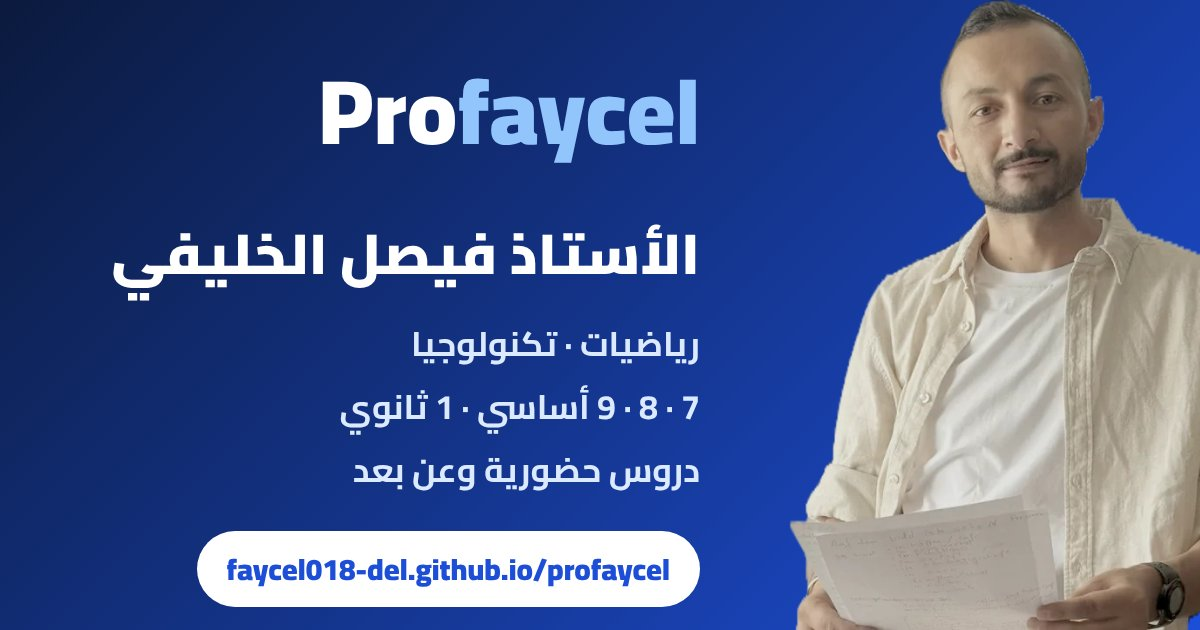
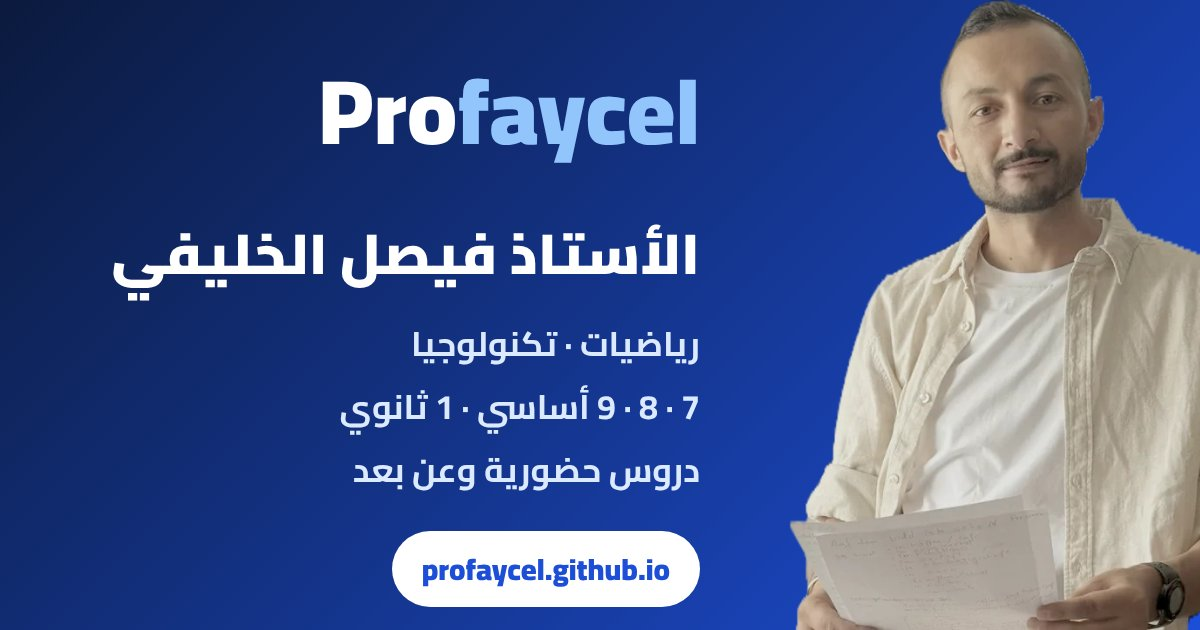
Nouvelle adresse du site : https://profaycel.github.io/
Liens canoniques, Open Graph, données structurées, sitemap, SITE_URL
(messages WhatsApp) et image de partage mis à jour ; CLAUDE.md indique
la nouvelle adresse et le nouveau dépôt.

Claude-Session: https://claude.ai/code/session_01ETy38nKtncWEKzrF837xhq

Changed region(s): [[0.1542, 0.8143, 0.555, 0.9651]]

diff --git a/index.html b/index.html
@@ -13,18 +13,18 @@
 
     <link rel="stylesheet" href="style.css?v=7">
     <link rel="stylesheet" href="home.css?v=7">
-    <link rel="canonical" href="https://faycel018-del.github.io/profaycel/">
+    <link rel="canonical" href="https://profaycel.github.io/">
     <meta name="keywords" content="Profaycel, Faycel Khlifi, فيصل الخليفي, الأستاذ فيصل, cours maths Tunisie, cours à distance, رياضيات, تكنولوجيا, دروس خصوصية, 7 أساسي, 8 أساسي, 9 أساسي">
     <meta property="og:type" content="website">
     <meta property="og:site_name" content="Profaycel">
     <meta property="og:title" content="Profaycel — الأستاذ فيصل الخليفي · Maths & Technologie">
     <meta property="og:description" content="دروس رياضيات وتكنولوجيا حضورية وعن بعد · 7، 8، 9 أساسي و1 ثانوي · حصّة مجانية كل أسبوع">
-    <meta property="og:url" content="https://faycel018-del.github.io/profaycel/">
-    <meta property="og:image" content="https://faycel018-del.github.io/profaycel/img/partage.jpg">
+    <meta property="og:url" content="https://profaycel.github.io/">
+    <meta property="og:image" content="https://profaycel.github.io/img/partage.jpg">
     <meta property="og:image:width" content="1200">
     <meta property="og:image:height" content="630">
     <meta name="twitter:card" content="summary_large_image">
-    <script type="application/ld+json">{"@context":"https://schema.org","@type":"Person","name":"Faycel Khlifi","alternateName":["فيصل الخليفي","Profaycel"],"jobTitle":"Professeur de mathématiques et de technologie","url":"https://faycel018-del.github.io/profaycel/","image":"https://faycel018-del.github.io/profaycel/img/faycel-hero.webp","sameAs":["https://www.facebook.com/alastadh.fysl.234144","https://www.tiktok.com/@profaycel","https://www.instagram.com/faycel_khlifii/","https://www.youtube.com/@profaycel","https://www.linkedin.com/in/faycel-khlifi-49824514b/"]}</script>
+    <script type="application/ld+json">{"@context":"https://schema.org","@type":"Person","name":"Faycel Khlifi","alternateName":["فيصل الخليفي","Profaycel"],"jobTitle":"Professeur de mathématiques et de technologie","url":"https://profaycel.github.io/","image":"https://profaycel.github.io/img/faycel-hero.webp","sameAs":["https://www.facebook.com/alastadh.fysl.234144","https://www.tiktok.com/@profaycel","https://www.instagram.com/faycel_khlifii/","https://www.youtube.com/@profaycel","https://www.linkedin.com/in/faycel-khlifi-49824514b/"]}</script>
     <link rel="manifest" href="manifest.json">
     <meta name="theme-color" content="#2563eb">
     <link rel="icon" type="image/svg+xml" href="icons/icon.svg">

diff --git a/confidentialite.html b/confidentialite.html
@@ -11,7 +11,7 @@
           content="Politique de confidentialité de la plateforme Profaycel.">
 
     <link rel="stylesheet" href="style.css?v=7">
-    <link rel="canonical" href="https://faycel018-del.github.io/profaycel/confidentialite.html">
+    <link rel="canonical" href="https://profaycel.github.io/confidentialite.html">
     <link rel="manifest" href="manifest.json">
     <meta name="theme-color" content="#2563eb">
     <link rel="icon" type="image/svg+xml" href="icons/icon.svg">

diff --git a/login.html b/login.html
@@ -11,7 +11,7 @@
           content="Connectez-vous à votre espace Profaycel : élève, parent ou administration.">
 
     <link rel="stylesheet" href="style.css?v=7">
-    <link rel="canonical" href="https://faycel018-del.github.io/profaycel/login.html">
+    <link rel="canonical" href="https://profaycel.github.io/login.html">
     <link rel="manifest" href="manifest.json">
     <meta name="theme-color" content="#2563eb">
     <link rel="icon" type="image/svg+xml" href="icons/icon.svg">

diff --git a/register.html b/register.html
@@ -11,7 +11,7 @@
           content="Créez votre compte Profaycel : élève, parent ou administration.">
 
     <link rel="stylesheet" href="style.css?v=7">
-    <link rel="canonical" href="https://faycel018-del.github.io/profaycel/register.html">
+    <link rel="canonical" href="https://profaycel.github.io/register.html">
     <link rel="manifest" href="manifest.json">
     <meta name="theme-color" content="#2563eb">
     <link rel="icon" type="image/svg+xml" href="icons/icon.svg">

diff --git a/script.js b/script.js
@@ -313,7 +313,7 @@ if ("serviceWorker" in navigator) {
 const ADMIN_EMAIL = "faycel.khlifiii@gmail.com";
 
 // Adresse publique du site (pour les messages WhatsApp)
-const SITE_URL = "https://faycel018-del.github.io/profaycel/";
+const SITE_URL = "https://profaycel.github.io/";
 
 // Prix d'une séance (les paiements sont enregistrés en nombre de séances)
 const PRIX_SEANCE = 25;

diff --git a/CLAUDE.md b/CLAUDE.md
@@ -2,8 +2,10 @@
 
 ## Le site
 
-- **Adresse officielle (la seule) : https://faycel018-del.github.io/profaycel/index.html**
+- **Adresse officielle (la seule) : https://profaycel.github.io/index.html**
   Quand on parle « du site », c'est toujours de cette adresse.
+- Ancienne adresse (avant le 20/10/2026) : `https://faycel018-del.github.io/profaycel/` — ne plus l'utiliser.
+- Dépôt GitHub : `profaycel/profaycel.github.io` (organisation `profaycel`).
 - Hébergement : GitHub Pages, publié automatiquement depuis la branche `main`
   (2–3 minutes après chaque fusion de Pull Request).
 - Les anciennes copies Netlify (`profaycel.netlify.app`, `tranquil-swan-a4ca4c`) ont été
@@ -47,3 +49,5 @@
 - Après une modification de CSS / JS, augmenter le numéro `?v=` dans les pages et
   `CACHE_NAME` dans `sw.js`.
 - Le schéma de la base est tenu à jour dans `supabase/schema.sql`.
+- Ne pas supprimer `googled179e0f4796b59bb.html` ni `google25415fdafefb95f9.html`
+  (validation Google Search Console).
